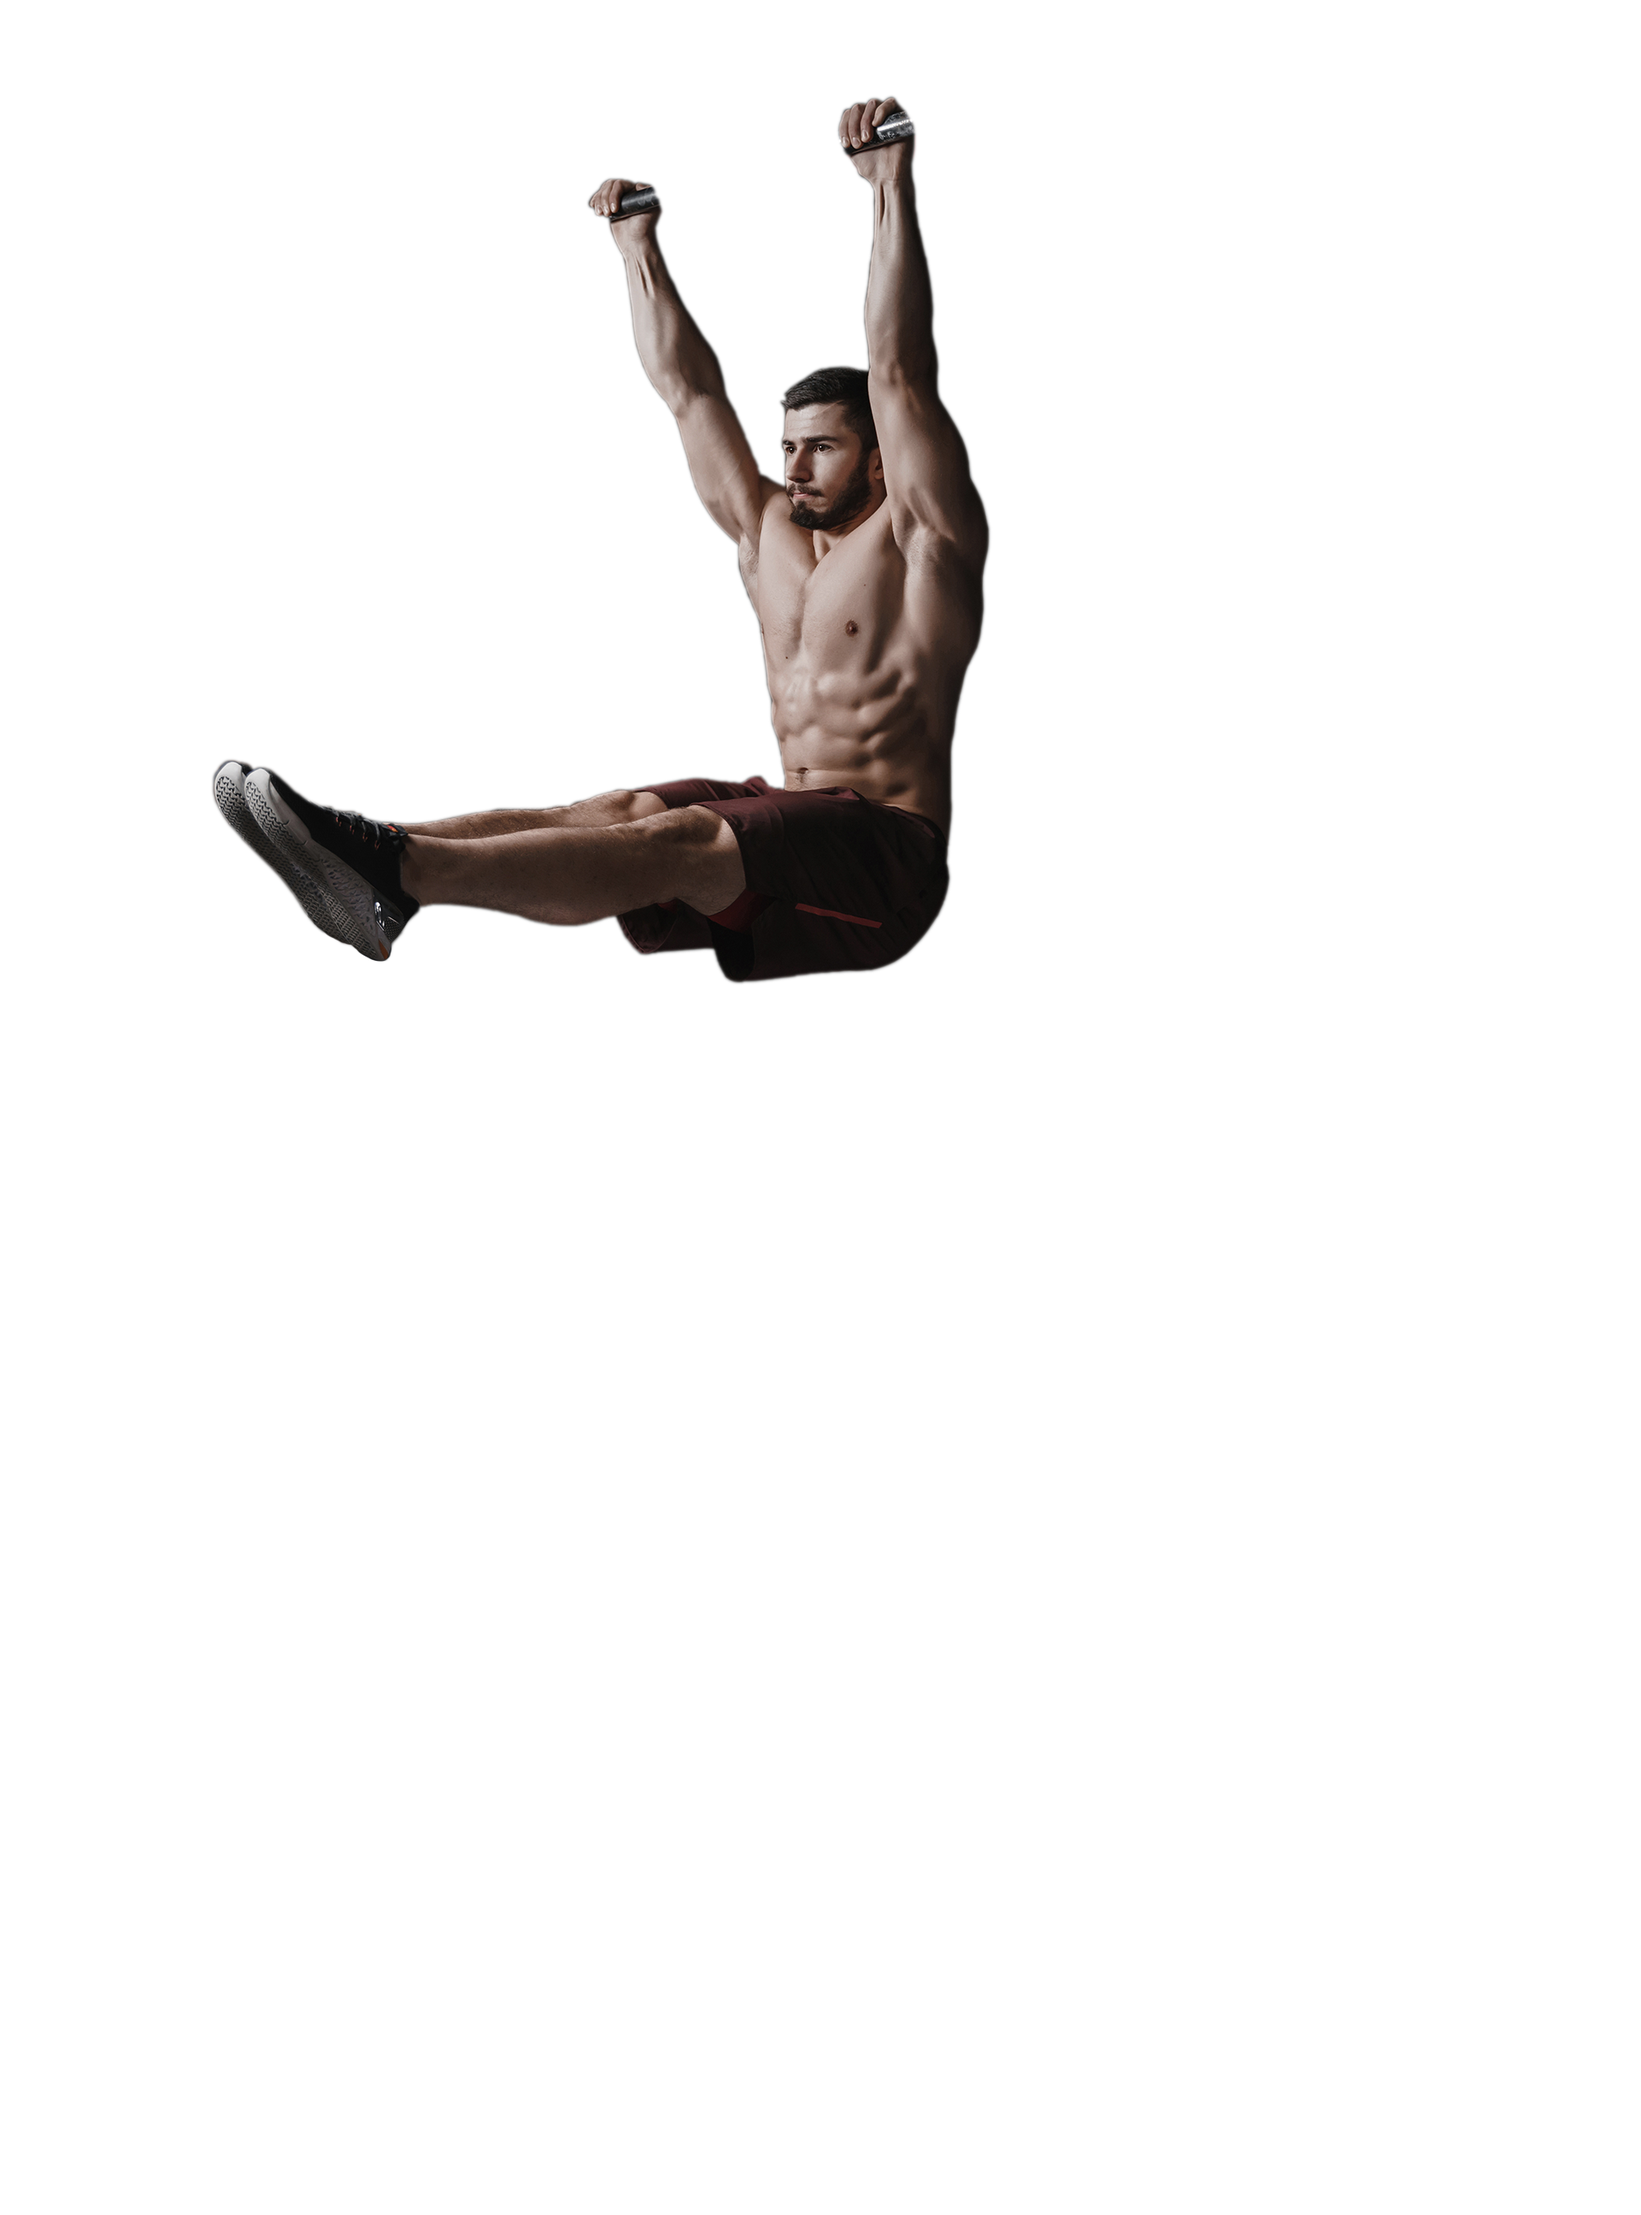
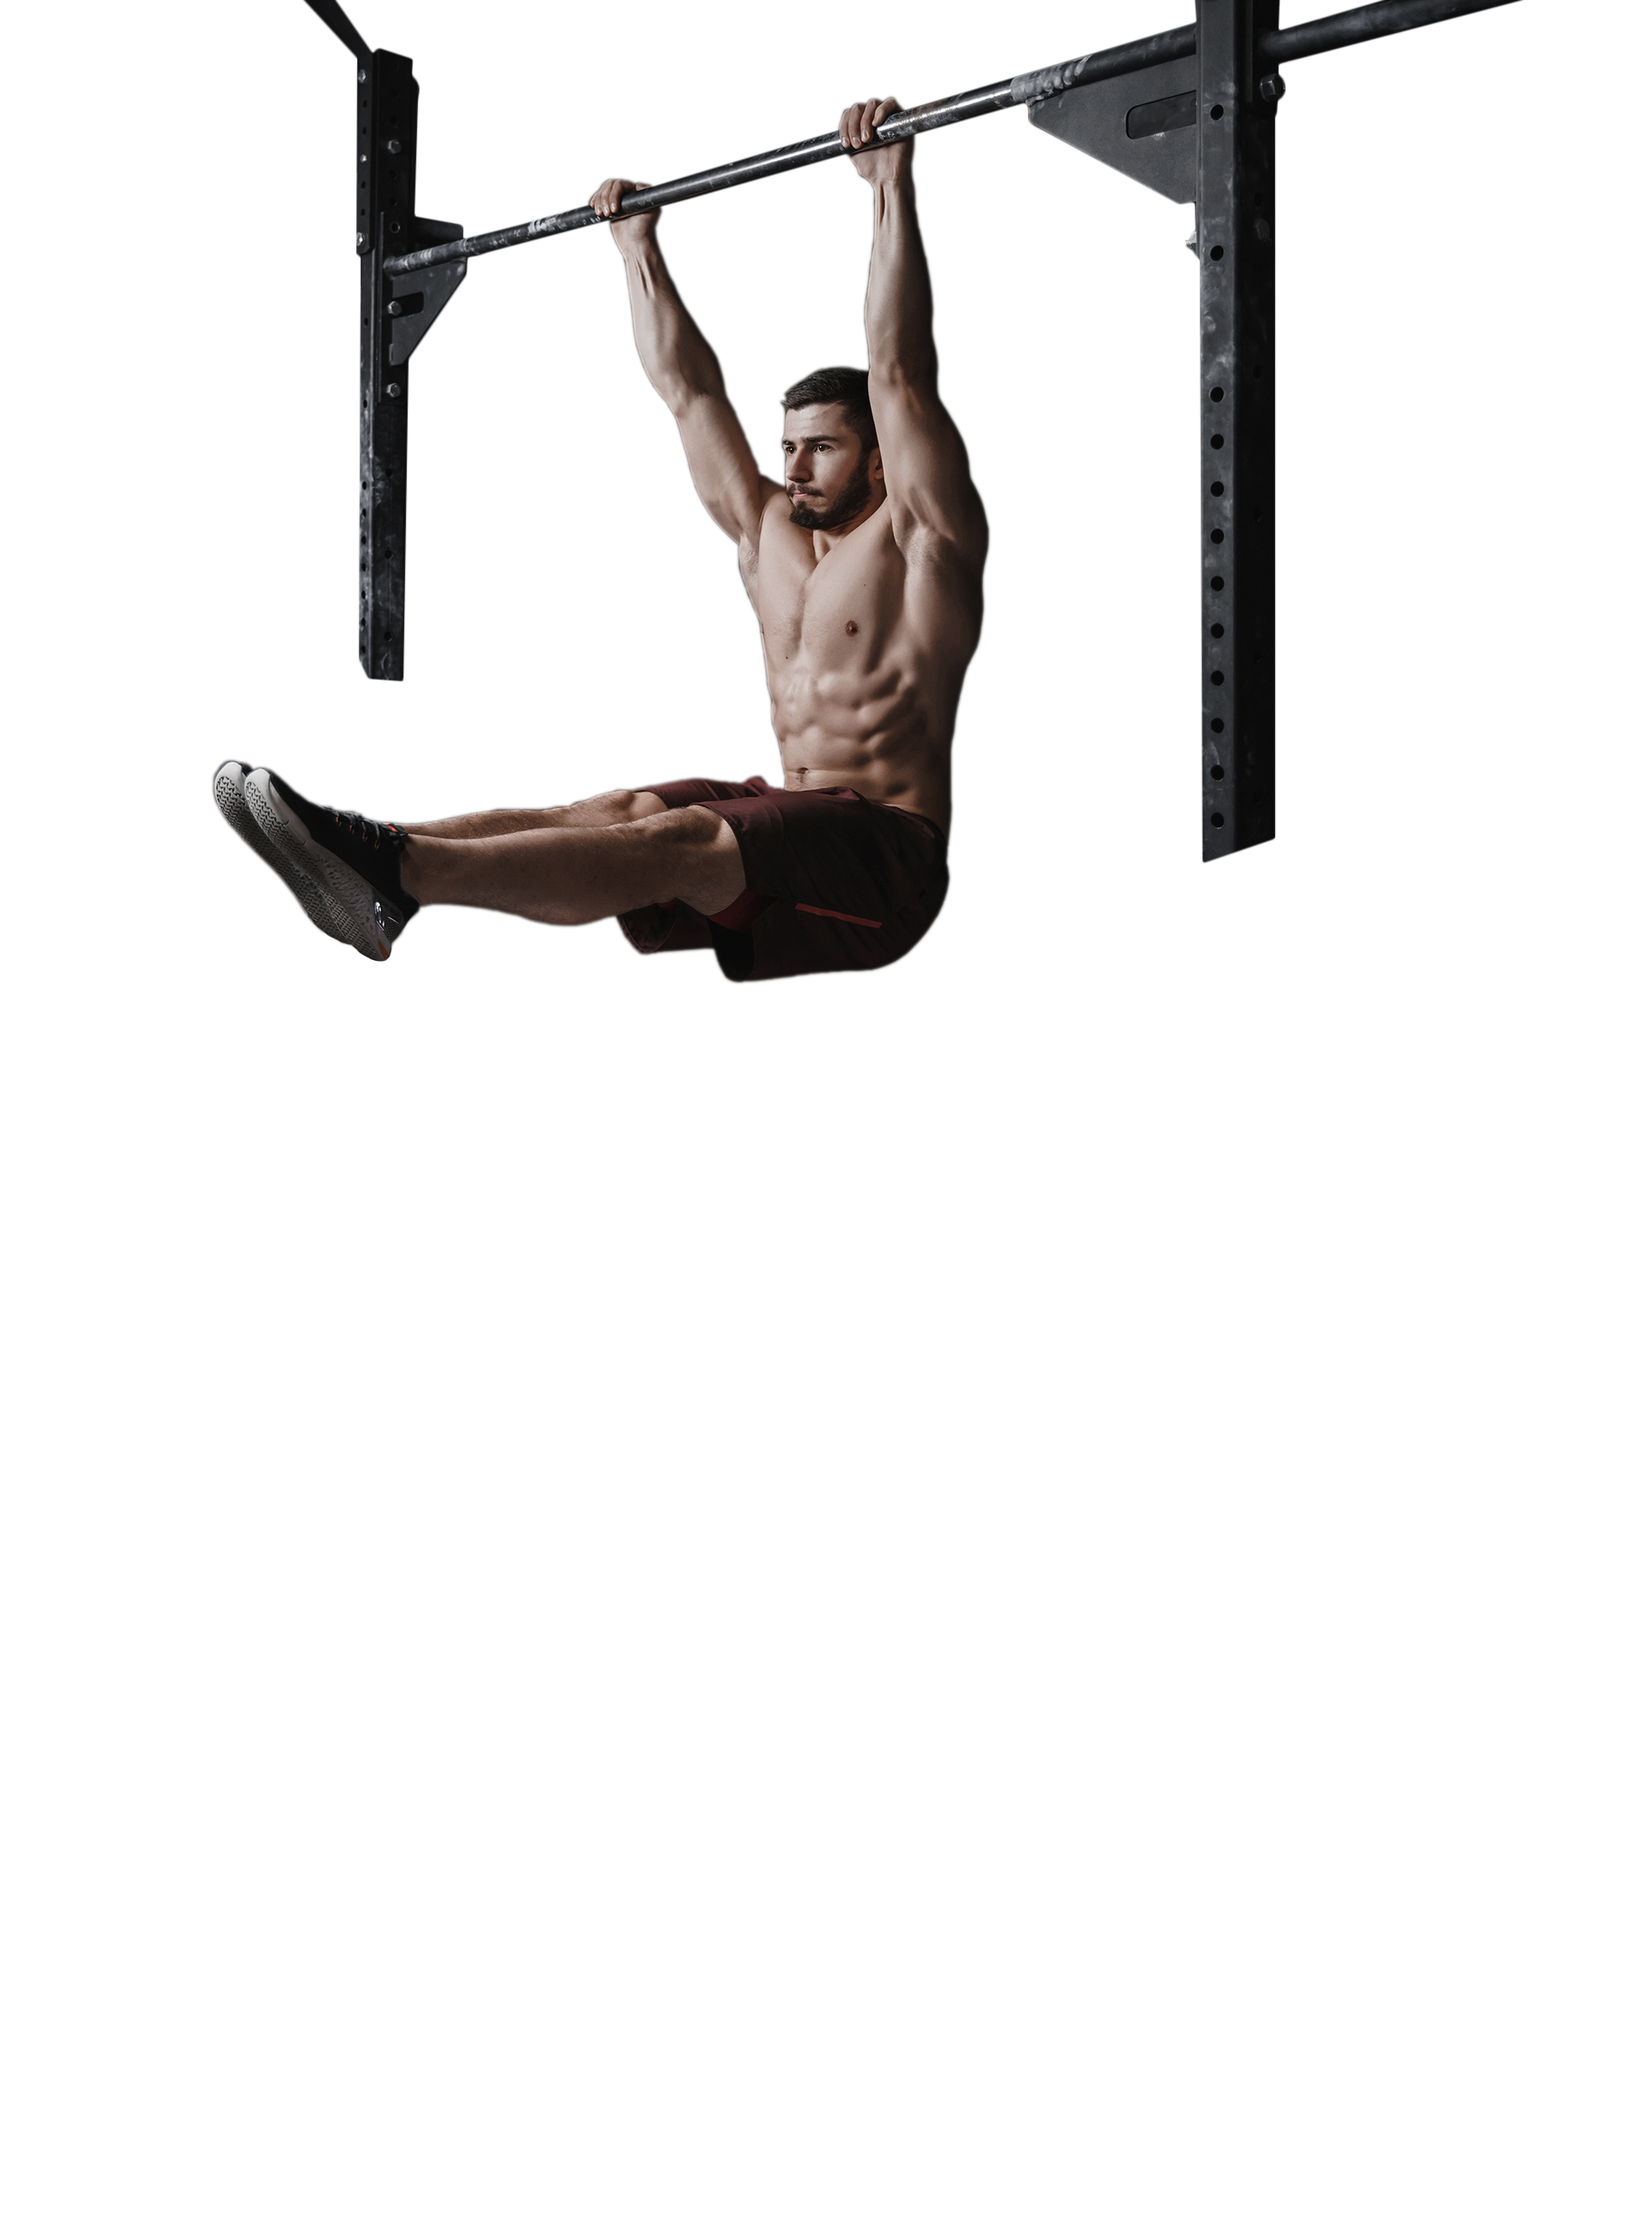
Show different background when not on home page

Changed region(s): [[0.5312, 0.0, 0.9062, 0.4014], [0.1875, 0.0, 0.375, 0.3088], [0.4062, 0.0618, 0.5312, 0.0926]]

diff --git a/src/components/background.js b/src/components/background.js
@@ -1,13 +1,23 @@
+import PropTypes from 'prop-types';
 import React from 'react';
 import { useStaticQuery, graphql } from 'gatsby';
 import GatsbyImage from 'gatsby-image';
 
-function Background() {
-  const { file } = useStaticQuery(graphql`
+function Background({ isHome }) {
+  const { background, backgroundBlack } = useStaticQuery(graphql`
     {
-      file(relativePath: { eq: "background-image.png" }) {
+      background: file(relativePath: { eq: "background-image.png" }) {
         childImageSharp {
-          fluid(maxWidth: 1920) {
+          fluid(maxWidth: 1920, quality: 90) {
+            ...GatsbyImageSharpFluid_withWebp_noBase64
+          }
+        }
+      }
+      backgroundBlack: file(
+        relativePath: { eq: "background-image-black.png" }
+      ) {
+        childImageSharp {
+          fluid(maxWidth: 1920, quality: 90) {
             ...GatsbyImageSharpFluid_withWebp_noBase64
           }
         }
@@ -18,7 +28,11 @@ function Background() {
     <div className="fixed inset-0 pointer-events-none">
       <div className="w-full mx-auto max-w-7xl">
         <GatsbyImage
-          fluid={file.childImageSharp.fluid}
+          fluid={
+            isHome
+              ? background.childImageSharp.fluid
+              : backgroundBlack.childImageSharp.fluid
+          }
           imgStyle={{ objectPosition: 'top' }}
           className="w-full h-full"
         />
@@ -26,5 +40,9 @@ function Background() {
     </div>
   );
 }
+
+Background.propTypes = {
+  isHome: PropTypes.bool,
+};
 
 export { Background };

diff --git a/src/components/hero.js b/src/components/hero.js
@@ -1,20 +1,23 @@
 import PropTypes from 'prop-types';
 import React from 'react';
+import { Link } from 'gatsby';
 
 import { Logo, LogoL } from './vectors';
 import { Foreground } from './foreground';
 
-function Hero({ hasH1 }) {
-  const Heading = hasH1 ? 'h1' : 'div';
+function Hero({ isHome }) {
+  const Heading = isHome ? 'h1' : 'div';
   return (
     <header className="px-4 mt-12">
       <div className="relative w-full max-w-3xl mx-auto">
-        <Heading>
-          <span className="sr-only">NXT LVL Fitness</span>
-          <Logo className="w-full" />
-        </Heading>
-        <Foreground />
-        <LogoL className="absolute top-0" />
+        <Link to="/">
+          <Heading>
+            <span className="sr-only">NXT LVL Fitness</span>
+            <Logo aria-hidden className="w-full pointer-events-none" />
+          </Heading>
+        </Link>
+        {isHome && <Foreground />}
+        <LogoL aria-hidden className="absolute top-0 pointer-events-none" />
         <p className="relative mt-4 text-2xl tracking-widest text-center uppercase">
           Functional movement centre
         </p>
@@ -24,7 +27,7 @@ function Hero({ hasH1 }) {
 }
 
 Hero.propTypes = {
-  hasH1: PropTypes.bool,
+  isHome: PropTypes.bool,
 };
 
 export { Hero };

diff --git a/src/components/layout.js b/src/components/layout.js
@@ -12,12 +12,12 @@ import { Background } from './background';
 import { Hero } from './hero';
 import { Footer } from './footer';
 
-export function Layout({ children, heroHasH1 }) {
+export function Layout({ children, isHome }) {
   return (
-    <div className="text-white bg-black">
-      <Background />
+    <div className="font-sans antialiased text-white bg-black">
+      <Background isHome={isHome} />
       <div className="flex flex-col w-full min-h-screen mx-auto max-w-7xl">
-        <Hero hasH1={heroHasH1} />
+        <Hero isHome={isHome} />
         <main className="relative flex flex-1">{children}</main>
         <Footer />
       </div>
@@ -27,5 +27,5 @@ export function Layout({ children, heroHasH1 }) {
 
 Layout.propTypes = {
   children: PropTypes.node.isRequired,
-  heroHasH1: PropTypes.bool,
+  isHome: PropTypes.bool,
 };

diff --git a/src/components/foreground.js b/src/components/foreground.js
@@ -15,7 +15,7 @@ function Foreground() {
     }
   `);
   return (
-    <div className="fixed inset-0 pointer-events-none">
+    <div aria-hidden className="fixed inset-0 pointer-events-none">
       <div className="w-full mx-auto max-w-7xl">
         <GatsbyImage
           fluid={file.childImageSharp.fluid}

diff --git a/src/pages/index.js b/src/pages/index.js
@@ -4,7 +4,7 @@ import { Layout, SEO, ContactForm } from '../components';
 
 export default function IndexPage() {
   return (
-    <Layout heroHasH1>
+    <Layout isHome>
       <SEO title="Coming soon" />
       <ContactForm />
     </Layout>
